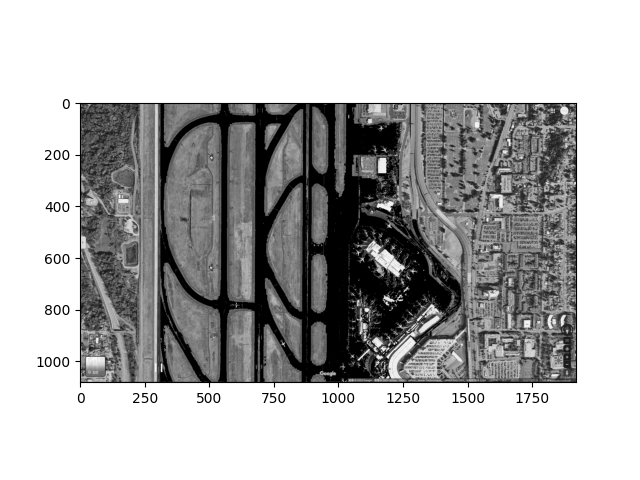
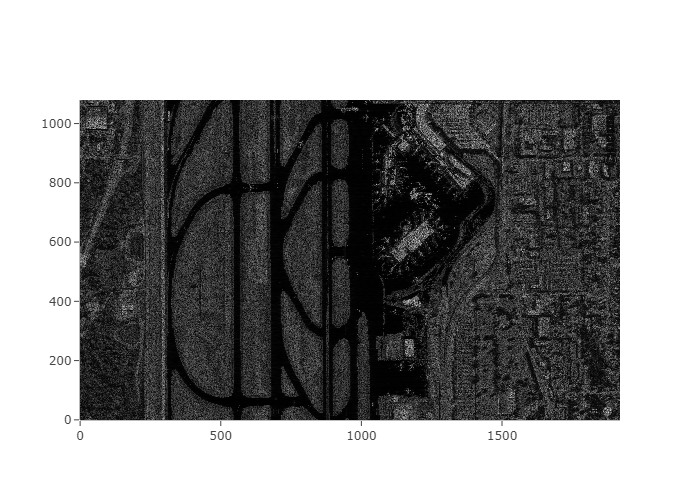
整合

diff --git a/week5/SAR.py b/week5/SAR.py
@@ -4,6 +4,7 @@ from PIL import Image
 import plotly.graph_objs as go
 import cv2
 from collections import deque
+import os
 
 def region_growing(img, seed, threshold):
   # 创建一个和输入图像同样大小的布尔数组，用于标记访问过的像素
@@ -47,7 +48,8 @@ def sar():
   if uploaded_file is not None:
       img = Image.open(uploaded_file)
   else:
-      img_path = 'C:/Users/Lenovo/Desktop/SAR/week4/runway.jpg'
+    #注意这里也要修改vscode的工作路径，如果报错的话
+      img_path =  os.path.abspath('.\\week5\\runway.jpg')
       img = Image.open(img_path)
   img_array = np.array(img)
 
@@ -117,6 +119,14 @@ def sar():
   fig = go.Figure(data=go.Heatmap(z=np.abs(filtered_img), colorscale='gray', showscale=False))
   fig.update_layout(autosize=True)
   st.plotly_chart(fig)
+
+  fig.update_layout(
+    margin=dict(l=0, r=0, t=0, b=0),  # Set all margins to 0
+    xaxis=dict(showgrid=False, zeroline=False, visible=False),  # Hide x-axis lines, ticks, and labels
+    yaxis=dict(showgrid=False, zeroline=False, visible=False)  # Hide y-axis lines, ticks, and labels
+  )
+  # Save the figure without borders
+  fig.write_image("image_without_borders.png")
 
 def plot_difference(original_picture, picture):
     # Compute the absolute difference

diff --git a/week5/simulate.py b/week5/simulate.py
@@ -34,7 +34,7 @@ def simulate():
   #todo 读取图片 from browser
 
   # Read the image from the browser
-  uploaded_file = st.file_uploader("Choose an image...", type="jpg")
+  uploaded_file = st.file_uploader("Choose an image...", type=['jpg', 'jpeg', 'png'])
   if uploaded_file is not None:
     file_bytes = np.asarray(bytearray(uploaded_file.read()), dtype=np.uint8)
     picture = cv2.imdecode(file_bytes, cv2.IMREAD_GRAYSCALE)

diff --git a/week5/main.py b/week5/main.py
@@ -13,7 +13,7 @@ def main():
       # 主界面内容
       st.title("欢迎来到SAR图像仿真系统")
 
-      #TODO 在这里写主界面的内容,应该是项目简介
+      #TODO 在这里写主界面的内容,应该是项目简介,使用说明等等
 
       st.write("请在侧边栏选择您想要查看的页面")
 

diff --git a/week6/plan.md b/week6/plan.md
@@ -4,6 +4,7 @@
 - 对比仿真的 SAR 与原图，得到灰度差异
 - 问题：仿真的图像区域增长法无法通用实现，现有办法是不是有点慢呢
 - 问题：找不到 SAR 对应的原图
+- 问题：找不到 SAR 对应的毁伤图片
 
 - 整合 locaterunway 仿真 sar 图像和 anotherapp 打击效果仿真的功能，实现光学图像图像的 SAR 打击效果仿真
 
@@ -22,6 +23,10 @@
   III)对均值滤波结果根据式（3-11）进行阈值分割，阈值dT取1，得到初步的变化检测结果。
   IV)对初步的变化检测结果进行形态学膨胀、腐蚀操作，通过区域标记法滤除小区域，得到真实变化毁伤区域。
 - 问题：如何进行毁伤评估
-  对SAR图像进行打击效果评估。毁伤评估准则如下:1级毁伤：1.5(  ,   )Ixyσ>≥σ（无毁伤或者轻微毁伤）2级毁伤：2(,)1.5Ixyσ>≥  σ（轻微毁伤或者中度毁伤）3级毁伤：2.5(  ,   )    2Ixyσ>≥ σ（中度毁伤或者严重毁伤）4级毁伤：(, )  2.5Ixy≥σ（严重毁伤或者完全毁伤）
+  对SAR图像进行打击效果评估。毁伤评估准则如下:
+  1级毁伤：1.5(  ,   )Ixyσ>≥σ（无毁伤或者轻微毁伤
+  2级毁伤：2(,)1.5Ixyσ>≥  σ（轻微毁伤或者中度毁伤
+  3级毁伤：2.5(  ,   )    2Ixyσ>≥ σ（中度毁伤或者严重毁伤
+  4级毁伤：(, )  2.5Ixy≥σ（严重毁伤或者完全毁伤）
 
 主要在第四章各个小章节
